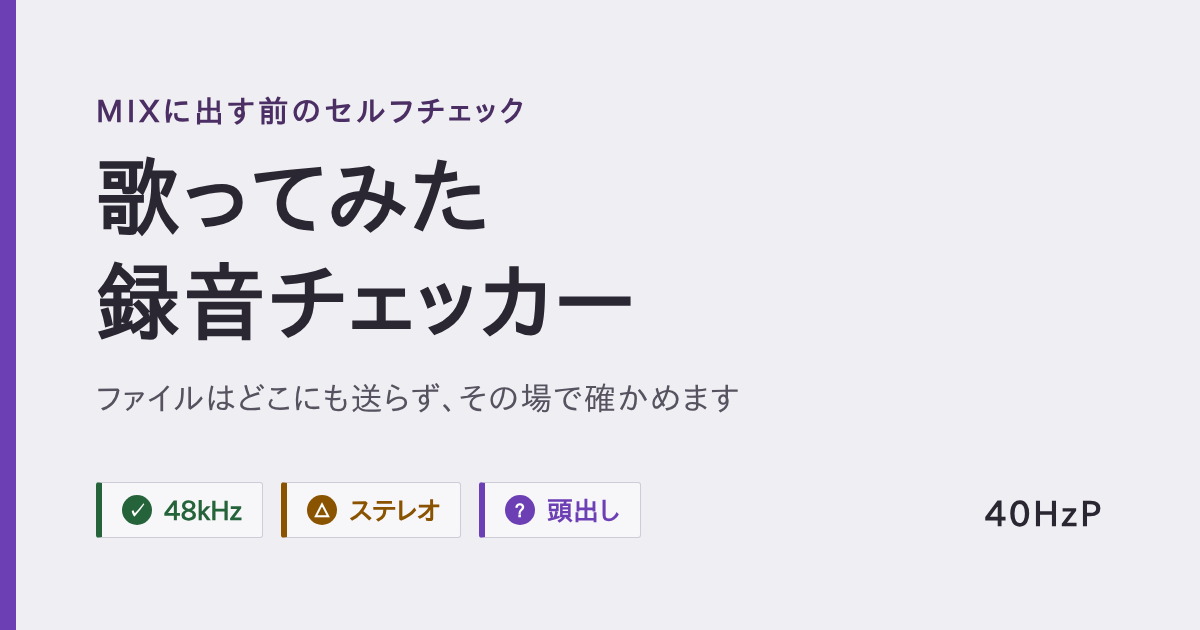
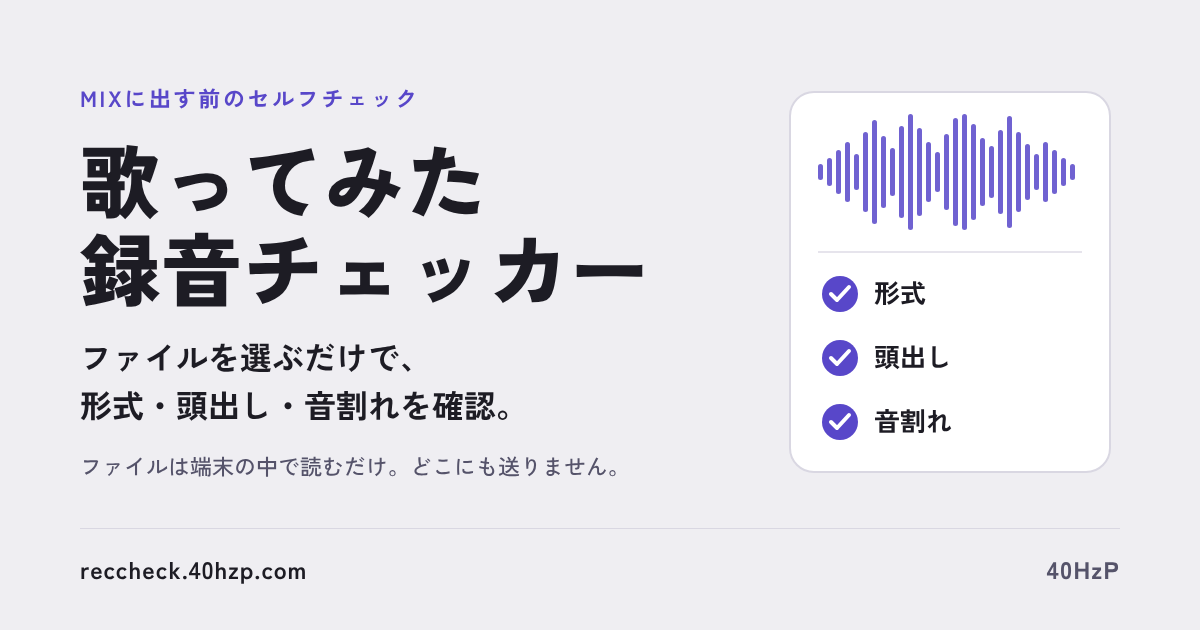
プレビュー画像を自作サイト共通のシリーズに差し替える (#7)
画像のURLに ?v=202611 を付け、X などが古い画像を使い続けないようにする。

Claude-Session: https://claude.ai/code/session_01FeqgkWDrfvGZ5fERxuvT54

diff --git a/public/index.html b/public/index.html
@@ -12,10 +12,10 @@
 <meta property="og:title" content="歌ってみた録音チェッカー">
 <meta property="og:description" content="録ったボーカルのファイルを、MIXに出す前に確認できます。ファイルはどこにも送りません。">
 <meta property="og:url" content="https://reccheck.40hzp.com/">
-<meta property="og:image" content="https://reccheck.40hzp.com/og.png">
+<meta property="og:image" content="https://reccheck.40hzp.com/og.png?v=202611">
 <meta property="og:image:width" content="1200">
 <meta property="og:image:height" content="630">
-<meta property="og:image:alt" content="歌ってみた録音チェッカー。MIXに出す前に、録ったボーカルを確認する。">
+<meta property="og:image:alt" content="歌ってみた録音チェッカー。ファイルを選ぶだけで、形式・頭出し・音割れを確認。">
 <meta name="twitter:card" content="summary_large_image">
 <meta name="twitter:site" content="@40HzP">
 <meta name="theme-color" content="#efeef2">
